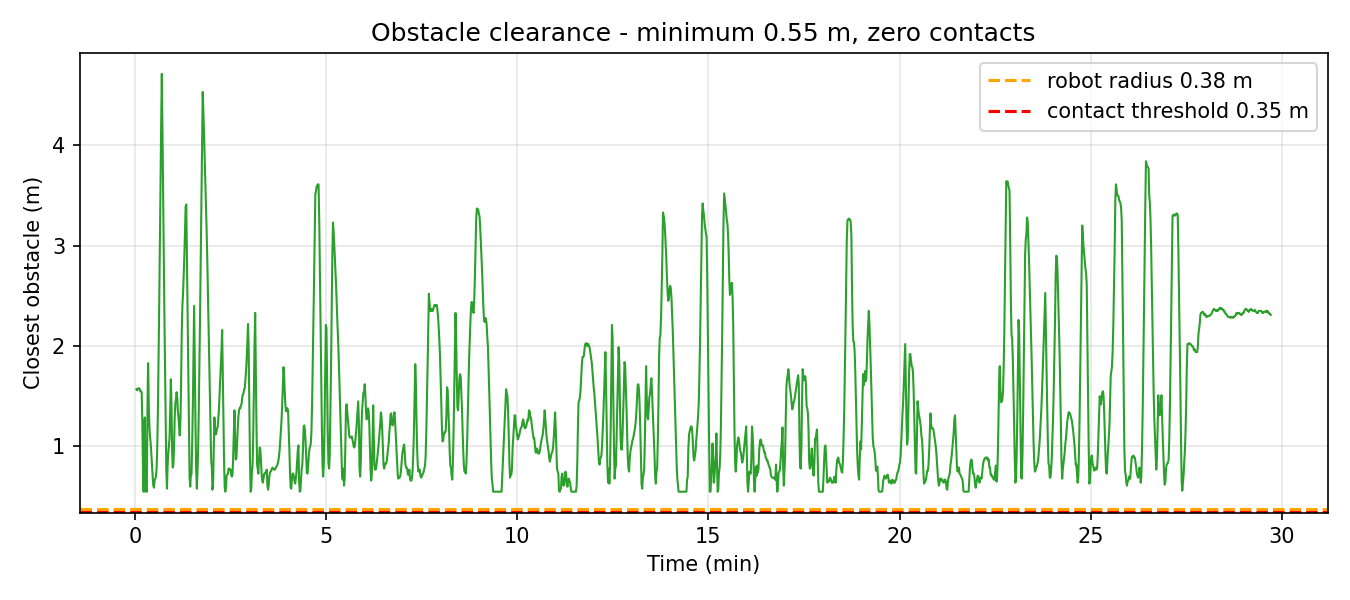
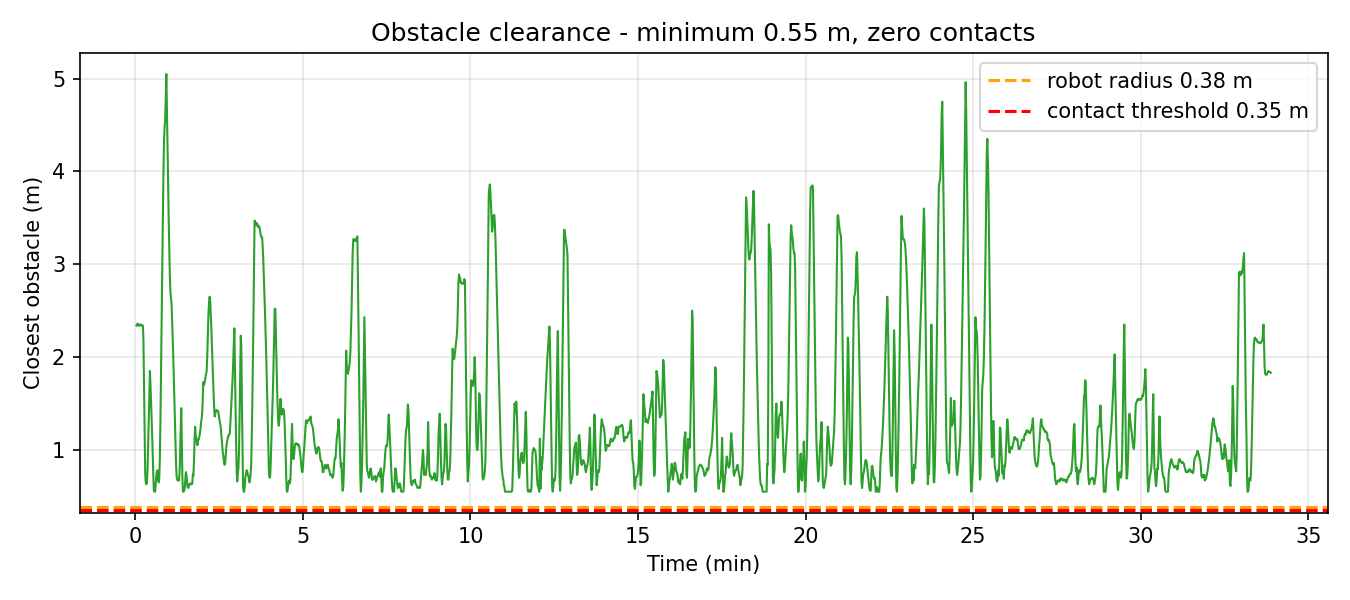
feat(explore): coverage memory, stuck recovery, known-space planning
- zone-level coverage memory: retires a zone once <12% unknown, so the drone
  never re-explores a finished room (51 zones retired in the reference run)
- stuck detection + escape maneuver (back off, climb, rotate, retry)
- GridBased allow_unknown=false: unreachable frontiers now fail at planning
  in <1s instead of burning a full navigation attempt (failures 64 -> 20)
- goal distance cap 25 m with a 40 m relaxation fallback
- reference run: 58/78 goals (74.4%), 671 m, 2131 m2 mapped, 0 collisions

diff --git a/src/garudanex_explore/garudanex_explore/smart_explorer.py b/src/garudanex_explore/garudanex_explore/smart_explorer.py
@@ -53,6 +53,11 @@ class SmartExplorer(Node):
         d('results_dir', '~/GarudaNEX/results/latest')
         d('unresolved_ratio', 0.75)
         d('min_new_cells', 1000)
+        d('memory_zone_m', 4.0)
+        d('zone_done_unknown', 0.12)
+        d('max_goal_distance', 25.0)
+        d('stuck_timeout', 20.0)
+        d('stuck_move_m', 0.30)
         d('cruise_alt', 1.5)
         d('climb_speed', 0.6)
         d('land_on_finish', False)
@@ -83,6 +88,13 @@ class SmartExplorer(Node):
         self.stuck = 0; self.recent = []
         self.ur = self.get_parameter('unresolved_ratio').value
         self.minnew = int(self.get_parameter('min_new_cells').value)
+        self.mz = self.get_parameter('memory_zone_m').value
+        self.zdone = self.get_parameter('zone_done_unknown').value
+        self.maxd = self.get_parameter('max_goal_distance').value
+        self.stuck_t = self.get_parameter('stuck_timeout').value
+        self.stuck_m = self.get_parameter('stuck_move_m').value
+        self.stucks = 0
+        self.done_zones = set(); self.visit_count = {}
         self.alt_ref = self.get_parameter('cruise_alt').value
         self.climb = self.get_parameter('climb_speed').value
         self.do_land = self.get_parameter('land_on_finish').value
@@ -204,6 +216,35 @@ class SmartExplorer(Node):
         self.get_logger().info('takeoff done, alt %s'
                                % ('unknown' if self.alt() is None else '%.2f' % self.alt()))
 
+    def mzone(self, p):
+        return (int(math.floor(p[0] / self.mz)), int(math.floor(p[1] / self.mz)))
+
+    def zone_unknown_frac(self, key):
+        st = self.snap()
+        if st is None:
+            return 1.0
+        g, res, ox, oy = st
+        H, W = g.shape
+        x0, y0 = key[0] * self.mz, key[1] * self.mz
+        c0 = max(0, int((x0 - ox) / res)); c1 = min(W, int((x0 + self.mz - ox) / res))
+        r0 = max(0, int((y0 - oy) / res)); r1 = min(H, int((y0 + self.mz - oy) / res))
+        if c1 <= c0 or r1 <= r0:
+            return 1.0
+        sub_g = g[r0:r1, c0:c1]
+        return float((sub_g < 0).sum()) / sub_g.size
+
+    def update_memory(self, here):
+        k = self.mzone(here)
+        self.visit_count[k] = self.visit_count.get(k, 0) + 1
+        for kk in list(self.visit_count.keys()):
+            if kk in self.done_zones:
+                continue
+            f = self.zone_unknown_frac(kk)
+            if f < self.zdone:
+                self.done_zones.add(kk)
+                self.get_logger().info('  zone %s complete (%.0f%% unknown) - retired'
+                                       % (str(kk), 100.0 * f))
+
     def known_cells(self):
         s = self.snap()
         return 0 if s is None else int((s[0] >= 0).sum())
@@ -269,9 +310,18 @@ class SmartExplorer(Node):
     # ---------------- scoring ----------------
     def choose(self, here, yaw, current=None):
         fr, _ = self.frontiers()
-        fr = [f for f in fr
-              if not self.blacklisted(f['p'])
-              and np.linalg.norm(f['p'] - here) > self.mind]
+        base = [f for f in fr
+                if not self.blacklisted(f['p'])
+                and np.linalg.norm(f['p'] - here) > self.mind
+                and self.mzone(f['p']) not in self.done_zones]
+        fr = [f for f in base if np.linalg.norm(f['p'] - here) < self.maxd]
+        if not fr and base:
+            hard = [f for f in base
+                    if np.linalg.norm(f['p'] - here) < self.maxd * 1.6]
+            if hard:
+                self.get_logger().info('  no near frontier - relaxing cap to %.0fm'
+                                       % (self.maxd * 1.6))
+                fr = hard
         if not fr:
             return None, 0
         n_raw = len(fr)
@@ -285,8 +335,9 @@ class SmartExplorer(Node):
             f['cost'] = c if c is not None else None
         short = [f for f in short if f['cost'] is not None]
         if not short:
-            for f in fr[:self.topk]:
+            for f in fr[:2]:
                 self.black.append(f['p'])
+            self.get_logger().warn('  no plannable candidate - retired 2')
             return None, n_raw
         gmax = max(f['gain'] for f in short) or 1.0
         cmax = max(f['cost'] for f in short) or 1.0
@@ -346,9 +397,19 @@ class SmartExplorer(Node):
             return 'rejected'
         rf = gh.get_result_async()
         t0 = time.time()
+        anchor, _ = self.pose()
+        anchor_t = t0
         while not rf.done():
             if time.time() - t0 > self.tmo:
                 gh.cancel_goal_async(); time.sleep(1.0); return 'timeout'
+            pn, _ = self.pose()
+            if pn is not None:
+                if anchor is None or np.linalg.norm(pn - anchor) > self.stuck_m:
+                    anchor = pn; anchor_t = time.time()
+                elif time.time() - anchor_t > self.stuck_t:
+                    gh.cancel_goal_async(); time.sleep(0.5)
+                    self.escape()
+                    return 'stuck'
             if time.time() - t0 > 4.0 and self.gain_at(target['p']) < self.collapse * g0:
                 gh.cancel_goal_async(); time.sleep(0.6)
                 self.get_logger().info('  gain collapsed -> early replan')
@@ -381,6 +442,7 @@ class SmartExplorer(Node):
             here, yaw = self.pose()
             if here is None:
                 time.sleep(0.5); continue
+            self.update_memory(here)
             best, nraw = self.choose(here, yaw, current)
             if best is None:
                 dry += 1
@@ -417,6 +479,11 @@ class SmartExplorer(Node):
                 self.replans += 1
                 strikes = 0; current = None
             else:
+                if res == 'stuck':
+                    self.black.append(best['p']); strikes = 0; current = None
+                    self.get_logger().warn('  stuck point blacklisted (%d)'
+                                           % len(self.black))
+                    continue
                 strikes += 1; self.fails += 1
                 self.get_logger().warn('  goal failed (%s), strike %d' % (res, strikes))
                 if strikes >= self.maxf:
@@ -453,6 +520,8 @@ class SmartExplorer(Node):
         summ = {'goals_reached': self.visited, 'goals_failed': self.fails,
                 'early_replans': self.replans, 'blacklisted': len(self.black),
                 'duration_s': round(el, 1), 'unresolved_frontiers': self.stuck,
+                'stuck_recoveries': self.stucks,
+                'zones_completed': len(self.done_zones),
                 'coverage': cov}
         with open(os.path.join(out, 'explorer_summary.json'), 'w') as f:
             json.dump(summ, f, indent=2)
@@ -465,6 +534,19 @@ class SmartExplorer(Node):
             self.land()
         else:
             self.get_logger().info('holding altitude (land_on_finish=false)')
+
+    def escape(self):
+        self.get_logger().warn('  STUCK - escape maneuver')
+        self.stucks += 1
+        t = Twist(); t.linear.x = -0.5; t.linear.z = 0.25
+        t0 = time.time()
+        while time.time() - t0 < 2.0:
+            self.cmd.publish(t); time.sleep(0.05)
+        t2 = Twist(); t2.angular.z = 0.9
+        t0 = time.time()
+        while time.time() - t0 < 1.5:
+            self.cmd.publish(t2); time.sleep(0.05)
+        self.cmd.publish(Twist()); time.sleep(1.0)
 
     def land(self):
         self.get_logger().info('landing')

diff --git a/README.md b/README.md
@@ -13,12 +13,14 @@ information gain per unit of traversal cost.
 | Metric | Value |
 |---|---|
 | Environment | 60 x 40 m GPS-denied facility, 76 obstacle links |
-| Map produced | 63.9 x 46.6 m, 2137 m2 free space, 75.4% cells known |
-| Distance flown | 601 m, fully autonomous |
-| Duration | 29.6 min |
-| Goals reached | 53 / 73 (72.6%) |
-| Dead-ends auto-retired | 22 |
-| Peak speed | 3.05 m/s |
+| Map produced | 64.9 x 46.8 m, 2131 m2 free space, 74.5% cells known |
+| Distance flown | 671 m, fully autonomous |
+| Duration | 33.9 min |
+| Goals reached | 58 / 78 (74.4%) |
+| Dead-ends auto-retired | 12 |
+| Zones retired by coverage memory | 51 |
+| Stuck recoveries needed | 0 |
+| Peak speed | 2.64 m/s |
 | Closest obstacle approach | 0.55 m (LiDAR range_min) |
 | Collisions | 0 |
 | Human input after launch | none |
